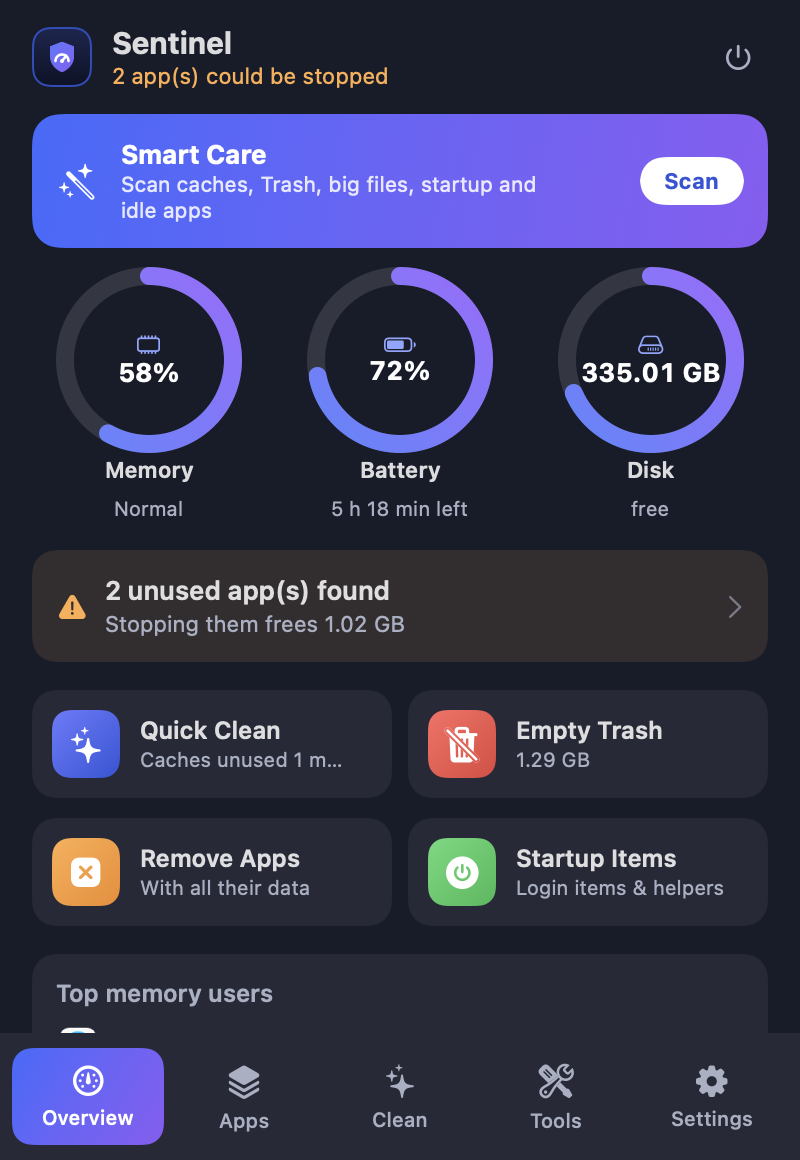
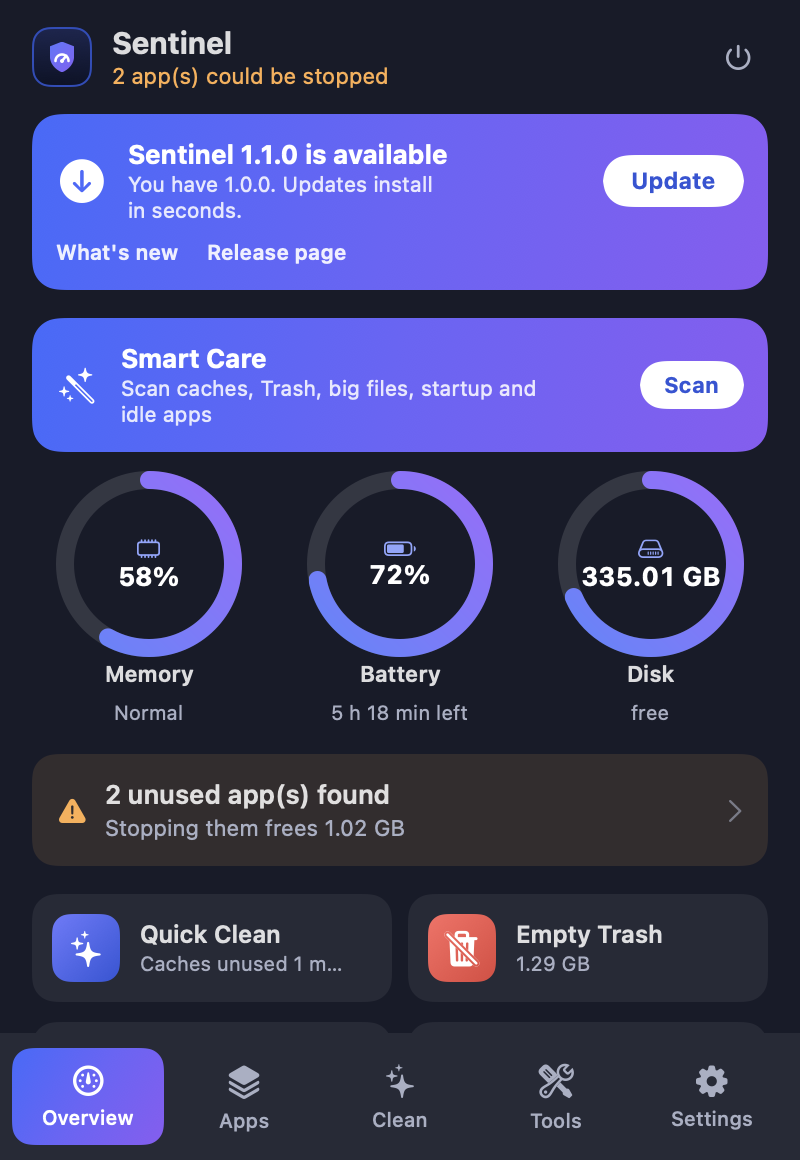
Release 1.1.0: documentation, website, screenshots and version
Bump the version to 1.1.0. Document automatic updates and the two new tools, replace every claim of no network access with the accurate statement that the only request is the optional update check, explain the release rules the updater depends on, refresh all screenshots and add the new features to the website.

diff --git a/docs/index.html b/docs/index.html
@@ -92,7 +92,7 @@ footer .wrap{display:flex;flex-wrap:wrap;gap:16px;justify-content:space-between}
         <a class="btn primary" href="https://github.com/alfayedoficial/sentinel-mac/releases/latest/download/Sentinel.zip">⬇ Download for Mac</a>
         <a class="btn ghost" href="https://github.com/alfayedoficial/sentinel-mac">View on GitHub</a>
       </div>
-      <div class="badges"><span>macOS 14+ · Apple Silicon &amp; Intel</span><span>MIT license</span><span>No network, no tracking</span></div>
+      <div class="badges"><span>macOS 14+ · Apple Silicon &amp; Intel</span><span>MIT license</span><span>No tracking · no accounts</span></div>
     </div>
     <div class="shots">
       <img src="images/overview-dark.png" alt="Sentinel overview screen in dark mode">
@@ -116,6 +116,9 @@ footer .wrap{display:flex;flex-wrap:wrap;gap:16px;justify-content:space-between}
     <div class="card"><div class="ico" style="background:linear-gradient(135deg,#FF6B63,#E0453D)">⚠</div><h3>Threat Watch</h3><p>Spots crypto miners and hidden background programs, and stops them in one click.</p></div>
     <div class="card"><div class="ico" style="background:linear-gradient(135deg,#FFD25E,#E8A317)">⚙</div><h3>Maintenance</h3><p>Restart Dock or Finder, fix "Open With", reset Quick Look, flush DNS.</p></div>
     <div class="card"><div class="ico" style="background:linear-gradient(135deg,#A3ABC2,#646D86)">↺</div><h3>History &amp; Restore</h3><p>A log of everything cleaned, with one-click restore from the Trash.</p></div>
+    <div class="card"><div class="ico" style="background:linear-gradient(135deg,#C4A1FF,#8A55E0)">▣</div><h3>Similar photos</h3><p>Finds near-identical pictures (resized, re-saved, edited), marks the sharpest as Best and lets you choose.</p></div>
+    <div class="card"><div class="ico" style="background:linear-gradient(135deg,#7CC4FF,#3B82E6)">❏</div><h3>Similar files</h3><p>Spots copies and old versions like "Report (1).pdf" or "Budget-v2.xlsx". You decide what goes.</p></div>
+    <div class="card"><div class="ico" style="background:linear-gradient(135deg,#3F6BFF,#8B5CF6)">⬇</div><h3>Automatic updates</h3><p>Checks GitHub Releases, verifies the download and installs the new version in seconds. Can be switched off.</p></div>
     <div class="card"><div class="ico" style="background:var(--grad)">☾</div><h3>Light &amp; dark</h3><p>Native look, smooth animations, light on memory and CPU.</p></div>
   </div>
 </div></section>
@@ -132,6 +135,9 @@ footer .wrap{display:flex;flex-wrap:wrap;gap:16px;justify-content:space-between}
     <figure><img loading="lazy" src="images/duplicates-dark.png" alt="Duplicates"><figcaption>Duplicates</figcaption></figure>
     <figure><img loading="lazy" src="images/startup-dark.png" alt="Startup Manager"><figcaption>Startup Manager</figcaption></figure>
     <figure><img loading="lazy" src="images/history-dark.png" alt="History"><figcaption>History &amp; Restore</figcaption></figure>
+    <figure><img loading="lazy" src="images/similar-photos-dark.png" alt="Similar photos"><figcaption>Similar photos</figcaption></figure>
+    <figure><img loading="lazy" src="images/similar-files-dark.png" alt="Similar files"><figcaption>Similar files</figcaption></figure>
+    <figure><img loading="lazy" src="images/overview-dark.png" alt="Update available banner"><figcaption>Automatic updates</figcaption></figure>
     <figure><img loading="lazy" src="images/overview-light.png" alt="Light mode"><figcaption>Light mode</figcaption></figure>
   </div>
   <div class="popups">
@@ -166,14 +172,15 @@ open ~/Applications/Sentinel.app</code></pre>
       <p style="font-size:14px">No git? <a href="https://github.com/alfayedoficial/sentinel-mac/archive/refs/heads/main.zip">Download the source as a zip</a>, unzip it, and run <code>./build.sh</code> inside the folder.</p>
     </div>
   </div>
-  <p style="margin-top:22px"><strong>After opening:</strong> a small icon with your memory percentage appears in the menu bar. For the smoothest experience, open <em>System Settings → Login Items &amp; Extensions</em> and switch on <em>Sentinel</em> (so it can switch off system launch items without asking for your password each time), and tick <em>Open Sentinel at login</em> in its Settings tab.</p>
+  <p style="margin-top:22px"><strong>Updates:</strong> from version 1.1.0 Sentinel updates itself from GitHub Releases (verified checksum and signature, one click, can be switched off in Settings). Running 1.0.0? Download 1.1.0 once; it cannot update itself.</p>
+  <p><strong>After opening:</strong> a small icon with your memory percentage appears in the menu bar. For the smoothest experience, open <em>System Settings → Login Items &amp; Extensions</em> and switch on <em>Sentinel</em> (so it can switch off system launch items without asking for your password each time), and tick <em>Open Sentinel at login</em> in its Settings tab.</p>
   <div class="note"><strong>Honest limits.</strong> Threat Watch is a lookout, not an antivirus: it knows common miner names, mining-pool arguments, deleted executables, unsigned heavy programs in temporary folders and suspicious launch items. The app is signed locally and not notarized; Developer ID signing is on the <a href="https://github.com/alfayedoficial/sentinel-mac/issues/1">roadmap</a>.</div>
 </div></section>
 
 <section><div class="wrap">
   <h2>Privacy and safety</h2>
   <div class="two">
-    <div class="card"><h3>Nothing leaves your Mac</h3><p>No network connections, accounts, analytics or telemetry. History stays in a local file.</p></div>
+    <div class="card"><h3>Nothing leaves your Mac</h3><p>No accounts, analytics or telemetry. The only network request is an optional update check against GitHub Releases, which you can switch off.</p></div>
     <div class="card"><h3>Review, then confirm</h3><p>Every clean-up shows a list first. Items go to the Trash and can be restored from History.</p></div>
     <div class="card"><h3>A tiny, locked-down helper</h3><p>The optional root helper can only switch off third-party launch items in two folders. It refuses Apple items and path tricks, and it never deletes.</p></div>
     <div class="card"><h3>Open source</h3><p>MIT licensed. Read every line, change it, share it.</p></div>

diff --git a/README.md b/README.md
@@ -10,6 +10,7 @@ It watches memory, battery and disk, finds apps you are not using, cleans old ca
 [![Platform](https://img.shields.io/badge/platform-macOS%2014%2B-blue)](#requirements)
 [![Swift](https://img.shields.io/badge/Swift-5.9-orange)](#requirements)
 [![License: MIT](https://img.shields.io/badge/license-MIT-green)](LICENSE)
+[![Release](https://img.shields.io/github/v/release/alfayedoficial/sentinel-mac)](https://github.com/alfayedoficial/sentinel-mac/releases/latest)
 [![CI](https://github.com/alfayedoficial/sentinel-mac/actions/workflows/ci.yml/badge.svg)](https://github.com/alfayedoficial/sentinel-mac/actions/workflows/ci.yml)
 
 [Website](https://alfayedoficial.github.io/sentinel-mac/) · [Download](https://github.com/alfayedoficial/sentinel-mac/releases/latest) · [Features](docs/FEATURES.md) · [Architecture](docs/ARCHITECTURE.md) · [Development guide](docs/DEVELOPMENT.md) · [Roadmap](ROADMAP.md)
@@ -25,7 +26,7 @@ It watches memory, battery and disk, finds apps you are not using, cleans old ca
 Cleaning tools are often closed, paid and hard to trust. Sentinel is the opposite: **open source, free, and it never deletes anything without showing you first.**
 
 - Everything it removes goes to the **Trash**, and a built-in **History** lets you restore it.
-- It makes **no network connections** of its own and sends no data anywhere.
+- It sends **no data anywhere**. Its only network request is an optional check of GitHub Releases for updates, which you can switch off.
 - It runs lightly: all scanning happens on a background thread, so the menu never lags.
 
 ## Features
@@ -39,12 +40,15 @@ Cleaning tools are often closed, paid and hard to trust. Sentinel is the opposit
 | **Uninstaller** | Removes an app together with its caches, preferences, containers and saved state. |
 | **Big old files** | Finds large files you have not touched for a long time. |
 | **Duplicate finder** | Compares real file contents (SHA-256), keeps one copy and moves the rest to the Trash. |
+| **Similar Photos** | Finds near-identical pictures (resized, re-saved, lightly edited) with a perceptual hash, marks the sharpest one as *Best* and lets you pick what to keep. |
+| **Similar Files** | Finds copies and old versions by name (`Report (1).pdf`, `Report copy.pdf`, `Budget-v2.xlsx`). Nothing is pre-selected. |
 | **Space Lens** | Drill into folders to see exactly what fills your disk. |
 | **Startup Manager** | Lists login items, background agents and services. Flags broken leftovers and suspicious ones. |
 | **Threat Watch** | Detects crypto miners and hidden background programs and lets you stop them in one click. |
 | **Maintenance** | Restart Dock or Finder, fix the "Open With" menu, reset Quick Look, clear font cache, flush DNS. |
 | **History & Restore** | A log of everything Sentinel moved to the Trash, with one-click restore. |
 | **Weekly reminder** | Optional notification when more than 200 MB of old caches have built up. |
+| **Automatic updates** | Checks GitHub Releases, verifies the download (checksum and code signature) and installs the new version in seconds. You stay in control and can turn it off. |
 
 See [docs/FEATURES.md](docs/FEATURES.md) for how each feature decides what to show.
 
@@ -63,6 +67,10 @@ All screenshots use **sample data**, generated by the app itself (see [Regenerat
 | Space Lens | Duplicates | Startup Manager |
 |---|---|---|
 | <img src="docs/images/space-lens-dark.png" width="250"> | <img src="docs/images/duplicates-dark.png" width="250"> | <img src="docs/images/startup-dark.png" width="250"> |
+
+| Similar Photos | Similar Files | Update available |
+|---|---|---|
+| <img src="docs/images/similar-photos-dark.png" width="250"> | <img src="docs/images/similar-files-dark.png" width="250"> | <img src="docs/images/overview-dark.png" width="250"> |
 
 | Popup: unused apps | Popup: threat |
 |---|---|
@@ -101,6 +109,14 @@ No git? [Download the source as a zip](https://github.com/alfayedoficial/sentine
 
 Either way, a small icon with your memory percentage appears in the menu bar. Click it to open Sentinel.
 
+### Updates
+
+From version 1.1.0 Sentinel keeps itself up to date. About 8 seconds after it starts, and then once a day, it asks GitHub whether a newer release exists. If so, a banner appears on the Overview screen with **Update**. It downloads `Sentinel.zip`, checks the SHA-256 checksum and the code signature, replaces itself (keeping the previous version in `~/Library/Application Support/Sentinel/previous`) and restarts.
+
+- Turn it off in **Settings → Check for updates automatically**. You can still press **Check now**.
+- The request goes to `api.github.com` only and contains no personal data; see [SECURITY.md](SECURITY.md).
+- **Upgrading from 1.0.0?** That version cannot update itself. Download 1.1.0 once from the [releases page](https://github.com/alfayedoficial/sentinel-mac/releases/latest); from then on it updates automatically.
+
 ### First-run permissions
 
 Sentinel asks for the least it needs, and each permission is requested once:
@@ -127,7 +143,7 @@ To start Sentinel with your Mac, tick **Open Sentinel at login** in its Settings
 
 ```bash
 swift build          # debug build
-swift test           # 69 unit tests
+swift test           # 100+ unit tests
 ./build.sh           # build, sign and install the app
 ```
 
@@ -148,9 +164,9 @@ docs/                documentation, screenshots and the project website
 
 ## Privacy
 
-- No network connections, accounts, analytics or telemetry.
-- Everything it learns about your Mac stays on your Mac.
-- The only data it stores is its History list (`~/Library/Application Support/Sentinel/history.json`) and your settings.
+- No accounts, analytics or telemetry. Everything it learns about your Mac stays on your Mac.
+- The **only** network request is the update check: a `GET` to `api.github.com` that identifies the app as `Sentinel/<version>`. GitHub sees your IP address, like any website. Turn it off in Settings and Sentinel makes no network requests at all.
+- The only data it stores is its History list (`~/Library/Application Support/Sentinel/history.json`), the previous app version after an update, and your settings.
 
 ## Limits (please read)
 

diff --git a/docs/FEATURES.md b/docs/FEATURES.md
@@ -58,6 +58,30 @@ Files above a size you choose (100 MB to 1 GB) that were not modified for the ra
 
 Only byte-identical files are reported. The oldest copy is kept by default; tap any file to choose which copy to keep. Symbolic links and `node_modules` are ignored.
 
+## Similar Photos
+
+Finds pictures that look the same even though the files are different: resized, saved in another format, re-compressed, or lightly edited.
+
+1. Looks at photos (JPEG, PNG, HEIC, TIFF, GIF, BMP, WebP) in Pictures, Downloads, Desktop, Documents and Movies. Photo libraries, `node_modules`, icons (under 300 × 300 pixels) and tiny files are skipped. At most the 15,000 newest photos are examined.
+2. Makes a 9 × 8 grayscale miniature of each and builds a 64-bit **difference hash** (is each pixel brighter than its right neighbour?).
+3. Groups photos whose hashes differ in only a few bits.
+
+| Setting | Allows | Good for |
+|---|---|---|
+| Very close (4 bits) | resized or re-saved copies | the safest choice |
+| Similar (8 bits) | small edits, crops, other formats | everyday clean-up |
+| Loose (12 bits) | burst shots and look-alikes | review carefully |
+
+In each group the photo with the most pixels (then the biggest file) is marked **BEST** and kept. Tap any photo to keep that one instead; the others in the group go to the Trash. Photos are never read beyond a small thumbnail, and nothing leaves your Mac.
+
+## Similar Files
+
+Finds files that look like copies or versions of each other **by name**, without reading their contents. These names belong to the same family:
+
+`Report.pdf` · `Report (1).pdf` · `Report copy.pdf` · `Report - Copy 2.pdf` · `Report-2.pdf` · `Report_final_v3.pdf`
+
+The family key is the name in lower case with trailing copy and version markers removed, plus the extension. Each family shows size, folder and date, with the newest marked **NEWEST**. Because similar is not identical, **nothing is selected for you**; use *Select older versions* or tick files one by one. For byte-identical copies use the Duplicate finder.
+
 ## Space Lens
 
 Sizes of the folders and files inside the current folder, shown as bars. Click a folder to go deeper, right-click for *Show in Finder* or *Move to Trash*.
@@ -103,6 +127,19 @@ The screen also lists the busiest background programs that are not part of an ap
 
 Every item moved to the Trash by Sentinel is logged (type, name, size, time, original and Trash location). **Restore** moves it back when it is still in the Trash and the original folder exists. It never overwrites an existing file.
 
+## Automatic updates
+
+Sentinel can update itself from your GitHub Releases:
+
+1. About 8 seconds after launch, then once a day, it requests `https://api.github.com/repos/alfayedoficial/sentinel-mac/releases/latest`.
+2. If the release is newer than the running version, the Overview shows **Sentinel x.y.z is available** with **What's new** (the release notes) and **Update**.
+3. **Update** downloads `Sentinel.zip` and `Sentinel.zip.sha256` (only over HTTPS from GitHub's own hosts), then checks:
+   - the SHA-256 of the zip equals the published checksum;
+   - the unpacked app is Sentinel (`com.afapps.sentinel`), is **newer** than the running one, has a valid code signature and the same signing identity.
+4. It moves the running app aside (kept in `~/Library/Application Support/Sentinel/previous`), puts the new one in its place and restarts. If anything fails the old app stays untouched.
+
+Prereleases and drafts are ignored. If Sentinel is somewhere it cannot write, it tells you to download the update manually. The check can be switched off in **Settings → Check for updates automatically**.
+
 ## Settings
 
-Popup alerts on/off, weekly reminder, open at login, the idle / memory / CPU thresholds, the ignored apps list, and About.
+Popup alerts on/off, weekly reminder, automatic update check, open at login, the idle / memory / CPU thresholds, the ignored apps list, and About.

diff --git a/SECURITY.md b/SECURITY.md
@@ -11,7 +11,7 @@ Please report security problems **privately** through GitHub: open the repositor
 | Sentinel app | you | Read process information, move files you confirm to the Trash, quit apps and kill processes you confirm. |
 | `SentinelHelper` (optional) | root | Exactly one operation: switch off a **third-party** launch item. |
 
-Sentinel makes **no network connections** and has no analytics or auto-update.
+Sentinel has no analytics and no accounts. Its **only** network request is the update check described below, which you can switch off.
 
 ## The privileged helper
 
@@ -29,6 +29,23 @@ To remove the helper: turn **Sentinel** off under *Allow in the Background* in S
 ### Known limitation
 
 The app is signed **locally (ad-hoc)** and not with a paid Apple Developer ID. An ad-hoc identifier can be imitated by anyone who can run code as you, so the caller check protects against accidents and casual abuse, not against a determined attacker who already controls your account. On a shared or high-security machine, do not enable the helper; Sentinel then falls back to the standard administrator prompt. A Developer ID build with a team-identifier requirement is on the [roadmap](ROADMAP.md).
+
+## Automatic updates
+
+From version 1.1.0 Sentinel can replace itself with the newest GitHub release. Because that is code that runs on your Mac, here is exactly what is and is not protected.
+
+**What it does**
+- Asks `api.github.com` for the latest release (a `GET` that sends only the app name and version). It ignores drafts and prereleases.
+- Downloads only over **HTTPS from GitHub's own hosts**; any other address is refused.
+- Requires a published SHA-256 checksum and refuses the update if it does not match.
+- Refuses the update unless the app is Sentinel (`com.afapps.sentinel`), is **newer** than the one running, has a **valid code signature** and the same signing identity.
+- Keeps the previous version in `~/Library/Application Support/Sentinel/previous` and restores the running app if the swap fails.
+
+**What it does not do**
+- The checksum is published next to the zip, so it proves the download is intact, **not who made it**. Someone who can publish a release on this repository could publish a bad update. The signature check is ad hoc (a local identity) and cannot prove authorship either. Protect your GitHub account with two-factor authentication.
+- A Developer ID signature with a pinned team identifier, which would close this gap, is on the [roadmap](ROADMAP.md).
+
+**To opt out**, turn off *Settings → Check for updates automatically*. Sentinel then makes no network requests at all, and you can update by hand from the releases page.
 
 ## Threat Watch is not antivirus
 

diff --git a/docs/DEVELOPMENT.md b/docs/DEVELOPMENT.md
@@ -94,18 +94,27 @@ The website is a static page in `docs/index.html`, published with GitHub Pages f
 
 ## Releasing
 
-1. Update `CHANGELOG.md` and the version in `Info.plist`.
+Automatic updates read your GitHub Releases, so a release must follow a few rules or installed apps will ignore or refuse it.
+
+1. **Bump the version** in `Info.plist` (`CFBundleShortVersionString`, and `CFBundleVersion` by one). The tag must match: `v1.2.0` for `1.2.0`. Update `CHANGELOG.md`.
 2. Run `swift test`.
 3. Build the universal download and its checksum:
    ```bash
    ./scripts/package.sh        # creates build/Sentinel.zip and build/Sentinel.zip.sha256
    ```
-4. Tag and publish. Keep the asset name `Sentinel.zip`, because the website and README link to `releases/latest/download/Sentinel.zip`:
+4. Publish. The asset names **must be exactly** `Sentinel.zip` and `Sentinel.zip.sha256`; the updater and the website link depend on them:
    ```bash
-   git tag -a v1.1.0 -m "Sentinel 1.1.0" && git push --tags
-   gh release create v1.1.0 build/Sentinel.zip build/Sentinel.zip.sha256 --title "Sentinel 1.1.0" --notes-file notes.md
+   git tag -a v1.2.0 -m "Sentinel 1.2.0" && git push --tags
+   gh release create v1.2.0 build/Sentinel.zip build/Sentinel.zip.sha256 --title "Sentinel 1.2.0" --notes-file notes.md
    ```
+   The release notes are shown to users under **What's new**. Do not mark it as a draft or prerelease: those are ignored.
 5. Put the SHA-256 in the release notes.
+
+### Testing the update path
+
+- Unit tests (`UpdaterTests.swift`) cover version comparison, release parsing, the checksum, signed, unsigned and tampered look-alike apps, and the swap with roll-back.
+- Against the real release: `SENTINEL_NETWORK_TESTS=1 swift test --filter testRealLatestRelease`.
+- End to end: build a copy with a lower version in `Info.plist` into a temporary folder and run `Sentinel.app/Contents/MacOS/Sentinel --install-update`. It checks GitHub, installs the newer release over itself and restarts. Copies outside an Applications folder never register the background helper.
 
 Signed and notarized downloads are on the [roadmap](../ROADMAP.md); today the app is signed locally.
 

diff --git a/CHANGELOG.md b/CHANGELOG.md
@@ -4,15 +4,23 @@ All notable changes are listed here. The format follows [Keep a Changelog](https
 
 ## [Unreleased]
 
+## [1.1.0] - 2026-10-25
+
 ### Added
-- Nothing yet. Add your line here in your pull request.
+- **Automatic updates** from GitHub Releases: a daily check, an **Update** banner with release notes, a verified download (HTTPS from GitHub only, SHA-256 checksum, code-signature and identity check, newer-version check), a safe swap that keeps the previous version, and a restart. Can be switched off in Settings. `--install-update` does it from a script.
+- **Similar Photos**: perceptual hashing finds resized, re-saved or lightly edited copies, marks the sharpest as *Best*, with Very close / Similar / Loose sensitivity.
+- **Similar Files**: finds copies and old versions by name (`Report (1).pdf`, `Budget-v2.xlsx`), with nothing pre-selected.
+- Direct download of a universal `Sentinel.zip` from the releases page, and `scripts/package.sh` to build it.
+- 30+ new tests (100+ in total), including real signed and tampered look-alike apps for the update checks.
+
+### Changed
+- The app now makes one network request: the optional update check. The documentation, website and security policy say so.
+- The privileged helper only registers itself when Sentinel runs from an Applications folder, so a copy in `/tmp` or a build folder never adds a background item.
 
 ### Fixed
 - Threat Watch no longer flags Apple's update services, which macOS runs from a temporary staging folder.
 - A shell whose command line only mentions miner words is no longer reported unless it is also using heavy CPU.
-
-### Added
-- Direct download of a universal `Sentinel.zip` from the releases page, and `scripts/package.sh` to build it.
+- Website: install cards no longer overflow and code blocks no longer hide under the Copy button.
 
 ## [1.0.0] - 2026-10-25
 

diff --git a/ROADMAP.md b/ROADMAP.md
@@ -2,6 +2,11 @@
 
 Ideas for making Sentinel better. Each item links to an issue where you can discuss it or claim it. Order is a rough priority, not a promise.
 
+## Done recently
+
+- Automatic updates from GitHub Releases (1.1.0).
+- Similar Photos and Similar Files (1.1.0).
+
 ## Next
 
 - **Signed and notarized releases** ([#1](https://github.com/alfayedoficial/sentinel-mac/issues/1)). Developer ID signing, notarization, a downloadable `.dmg` and a Homebrew cask. Also lets the helper verify its caller with a team identifier.
@@ -12,8 +17,9 @@ Ideas for making Sentinel better. Each item links to an issue where you can disc
 ## Later
 
 - **Network-level blocking** ([#5](https://github.com/alfayedoficial/sentinel-mac/issues/5)) for suspicious programs (a Network Extension or `pf` rules), so Threat Watch can cut a miner's connection and not only stop the process.
-- **Similar photos** ([#6](https://github.com/alfayedoficial/sentinel-mac/issues/6)). Perceptual hashing to find near-duplicate images, not just identical files.
 - **Right-click menu on the menu-bar icon** ([#7](https://github.com/alfayedoficial/sentinel-mac/issues/7)) with Quick Clean, Empty Trash and Quit.
+- **Similar videos and Live Photos**, using the same hashing idea on key frames.
+- **Update safety upgrades.** Pin a Developer ID team identifier for updates, add a *Restore previous version* button, and show update progress.
 - **Per-app history.** See how much memory and CPU an app used over the last days.
 - **More detection rules** ([#8](https://github.com/alfayedoficial/sentinel-mac/issues/8)) for Threat Watch, with a shared, reviewable list of known miner names and pools.
 - **Universal build in CI** (Apple Silicon and Intel) with downloadable artifacts.
